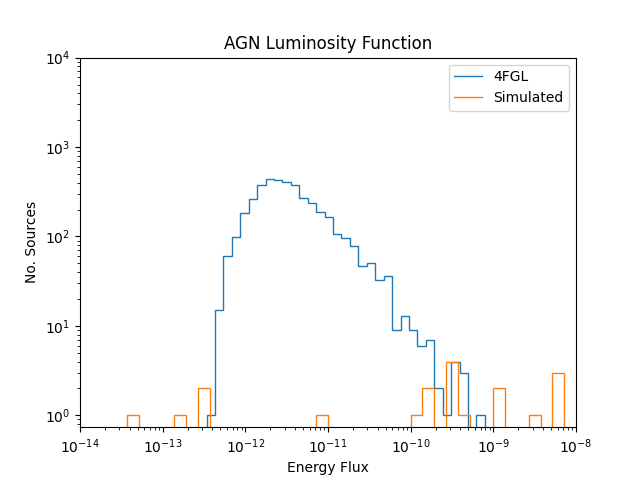
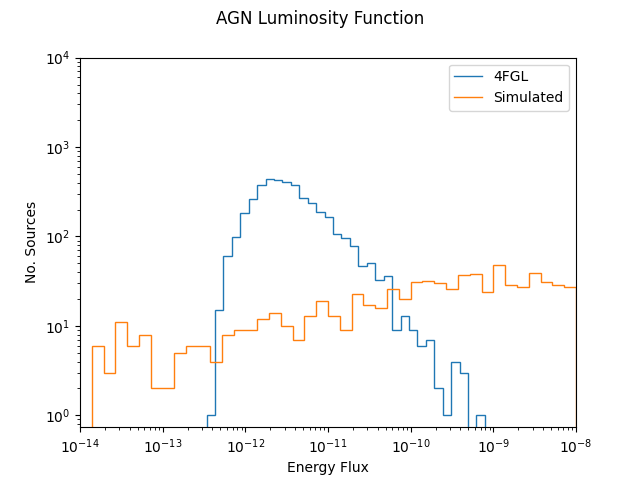
Working on luminosity function for AGNs.

diff --git a/data_simulation/create_mock_catalog.py b/data_simulation/create_mock_catalog.py
@@ -25,6 +25,7 @@
 # LIBRARIES
 from pathlib import Path
 from scipy import stats
+from math import floor
 
 # Relative imports
 from analysis.goodness_of_fit import chi_squared_test, kolmogorov_smirnov_test
@@ -227,7 +228,10 @@ def verification(simulated_agns, simulated_pulsars, directory="./plots/verificat
                               directory=directory)
 
 
-def num_sources_to_generate(energy_fluxes_4fgl, detection_threshold):
+def luminosity_function_agn(energy_fluxes_4fgl, detection_threshold):
+
+    # Number of sources in lowest energy flux bin
+    n_min = np.random.uniform(low=50, high=250)
 
     # THIS DETERMINES THE LUMINOSITY FUNCTION OF MOCK CATALOG - NOT FINISHED YET
 
@@ -246,6 +250,12 @@ def num_sources_to_generate(energy_fluxes_4fgl, detection_threshold):
     # Calculate width of bins
     bin_width = bin_intervals[1] - bin_intervals
 
+    # Number of bins between current lowest energy bin and our faint source threshold
+    num_extra_bins = floor((bin_intervals[0] - our_threshold) / bin_width)
+
+    # Create extra bin intervals
+    extra_bin_intervals = [bin_intervals[0] - (k * bin_width) for k in range(num_extra_bins - 1, -1, - 1)]
+
     # Calculate number of random
 
     # Find bin with the most number of AGNs
@@ -253,6 +263,26 @@ def num_sources_to_generate(energy_fluxes_4fgl, detection_threshold):
 
     # Generate random numbers for number of energy flux bins to the right of the peak
     n_noise = np.random.uniform(low=0.8, high=1.3, size=len(bin_intervals) - peak)
+
+    # Create some noise in energy bins greater than peak
+    for k in range(peak, len(counts)):
+        counts[k] = counts[k] * n_noise[k]
+
+    bin_intervals = np.array(extra_bin_intervals + list(bin_intervals))
+
+    # Set number of counts equal to peak for original 4FGL bins to the left of the peak
+    for k in range(0, peak):
+        counts = n_min
+
+    counts = [0 for 0 in range(len(bin_intervals))] + counts
+
+    for k in range(0, len(extra_bin_intervals)):
+        counts = n_min
+        
+    # New peak
+    peak = np.argmax(counts)
+
+    return counts, bin_intervals, peak
 
 
 # MAIN PROGRAM
@@ -267,11 +297,11 @@ agn_rows, pulsar_rows, source_detection_threshold, fluxes_4fgl = catalog_data_pr
 
 # Analyse parameters, their distributions, and their correlations
 
-# analysis(agn_rows, pulsar_rows)
+analysis(agn_rows, pulsar_rows)
 
 # Generate simulated AGN sources
 
-agns = generate_mock_agn_catalog(agn_rows.copy(), num_agns=20, detection_threshold=source_detection_threshold)
+agns = generate_mock_agn_catalog(agn_rows.copy(), num_agns=1000, detection_threshold=source_detection_threshold)
 
 # Generate simulated pulsar sources
 

diff --git a/data_simulation/verification/visualisation.py b/data_simulation/verification/visualisation.py
@@ -6,7 +6,7 @@ import numpy as np
 import numpy.typing as npt
 
 
-def plot_agn_luminosity_function(catalog: str, energy_fluxes: npt.NDArray[np.float64], directory) -> None:
+def plot_agn_luminosity_function(catalog: str, energy_fluxes: npt.NDArray[np.float64], directory:str) -> None:
 
     # Data Processing
 
@@ -27,32 +27,34 @@ def plot_agn_luminosity_function(catalog: str, energy_fluxes: npt.NDArray[np.flo
     # Set plot size
     plt.rcParams["figure.figsize"] = (6.4, 4.8)
 
+    fig, ax = plt.subplots(1, 1)
+
     # Plot 4FGL data
     bin_edges = 10**np.linspace(-14, -9, 50)
     counts, bins = np.histogram(energy_fluxes_4fgl, bins=bin_edges)
-    plt.stairs(counts, bins, label='4FGL')
+    ax.stairs(counts, bins, label='4FGL')
 
     # Plot simulated data
-    bin_edges = 10**np.linspace(-15, -8, 50)
+    bin_edges = 10 ** np.linspace(-15, -8, 50)
     counts, bins = np.histogram(energy_fluxes, bins=bin_edges)
-    plt.stairs(counts, bins, label='Simulated')
+    ax.stairs(counts, bins, label='Simulated')
 
     # Formatting
 
-    plt.title('AGN Luminosity Function')
+    fig.suptitle('AGN Luminosity Function')
 
-    plt.xlabel('Energy Flux')
-    plt.ylabel('No. Sources')
+    ax.set_xlabel('Energy Flux')
+    ax.set_ylabel('No. Sources')
 
-    plt.xscale('log')
-    plt.yscale('log')
+    ax.set_xscale('log')
+    ax.set_yscale('log')
 
-    plt.xlim(10**-14, 10**-8)
-    plt.ylim(top=10**4)
+    ax.set_xlim(10 ** -14, 10 ** -8)
+    ax.set_ylim(top=10 ** 4)
 
-    plt.legend()
+    ax.legend()
 
-    plt.savefig(directory + "/4fgl_agn_luminosity_function.png")
+    fig.savefig(directory + "/4fgl_agn_luminosity_function.png")
 
     plt.close()
 

diff --git a/data_simulation/analysis/visualisation.py b/data_simulation/analysis/visualisation.py
@@ -336,10 +336,10 @@ def plot_parameter_relationships(sources, source_type: str, directory: str):
         # Subplot formatting
         for a in [ax, ax2]:
 
-            a[row, col].set_title(axis_labels[var1] + ' against ' + axis_labels[var2], fontsize=12)
+            a[row, col].set_title(mathematical_notation[var1] + ' against ' + mathematical_notation[var2], fontsize=12)
 
             a[row, col].set_xlabel("{} {}".format(mathematical_notation[var2], units[var2]))
-            a[row, col].set_ylabel("{} {}".format(mathematical_notation[var1],units[var1]))
+            a[row, col].set_ylabel("{} {}".format(mathematical_notation[var1], units[var1]))
 
             a[row, col].legend(fontsize=8, loc='upper left')
 
